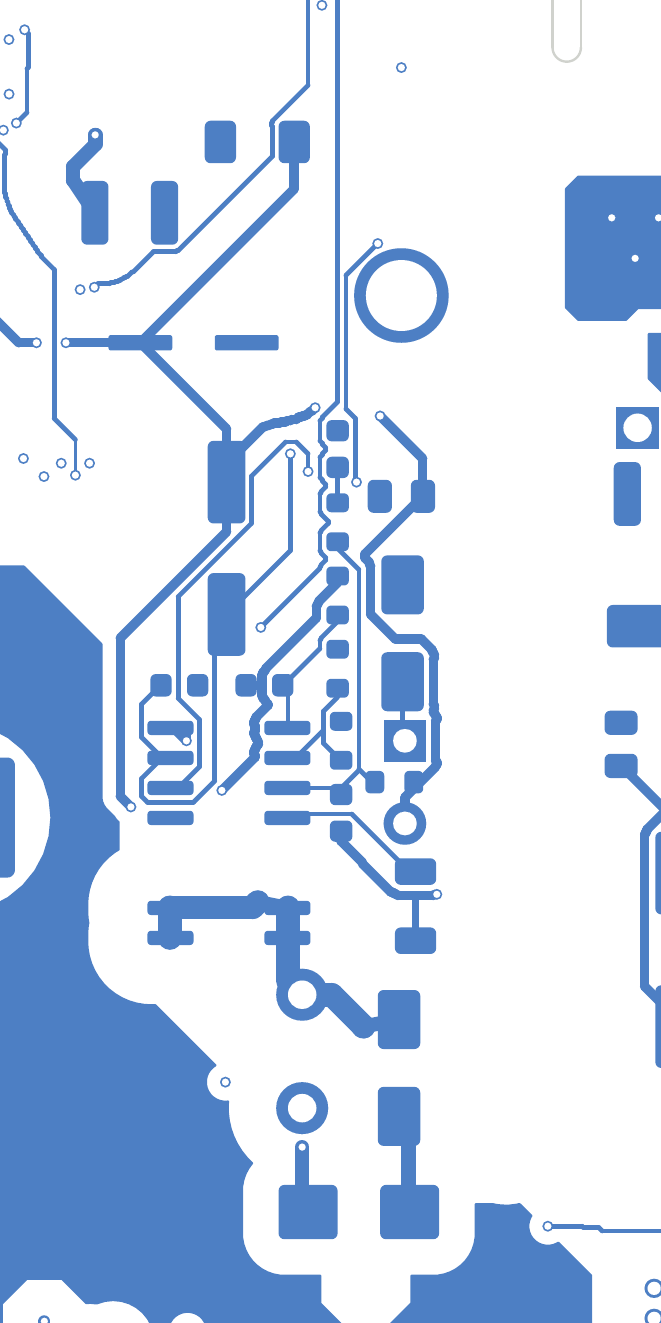
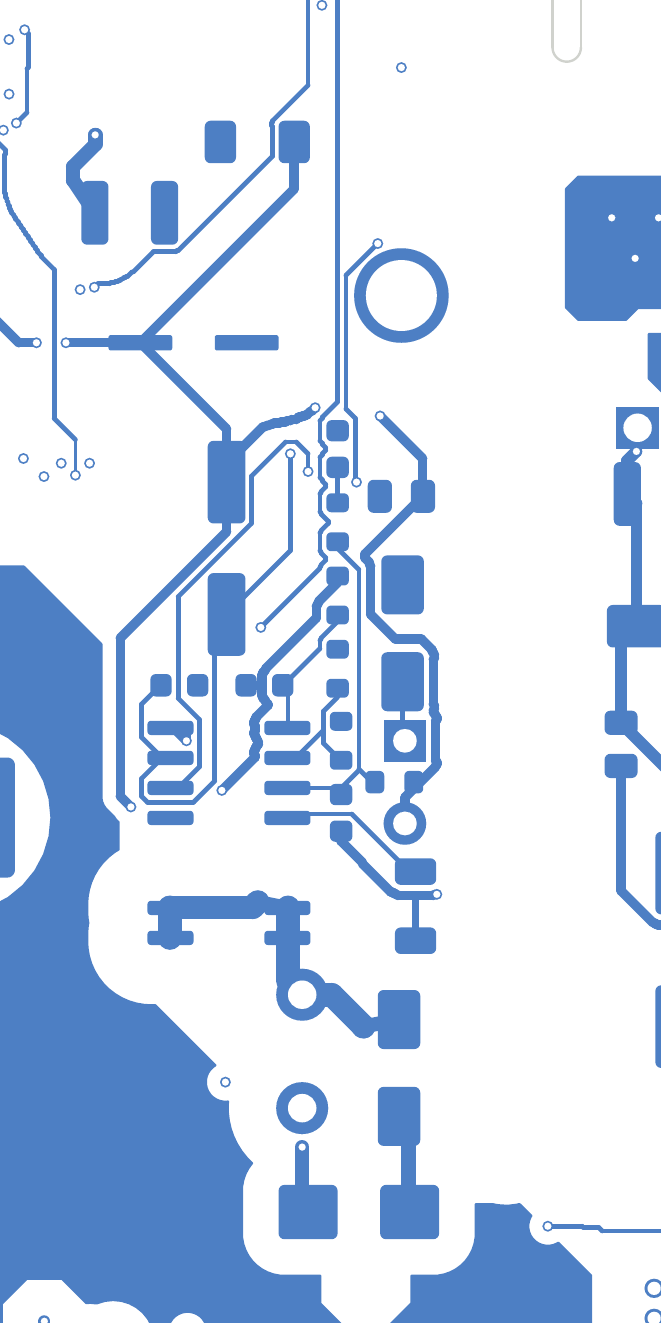
Routing pass 5 follow-up: supply steps rerun, 15V_ISO closed, aux and J11-22 findings
22 unconnected on 10 nets; board legal (0 shorts, 0 clearance errors, domain gaps 0, check_layout OK,
no pour cut). 15V step still runs out of its 420 s budget. Chain gets a step for DAB_PWM_PRI_HI_ISO
first (not run yet).

Claude-Session: https://claude.ai/code/session_01Am5hpeWpvZbzmHWspFiWJm

Changed region(s): [[0.9077, 0.4958, 1.0, 0.7748], [0.938, 0.4029, 0.9682, 0.4649], [0.938, 0.3409, 0.9682, 0.3719]]

diff --git a/tools/v5/route_pass1/maze.py b/tools/v5/route_pass1/maze.py
@@ -149,9 +149,16 @@ class Grid:
         self.keep = blk
         return blk
 
-    def build(self, net, w, walls=()):
+    def build(self, net, w, walls=(), hv=False):
         blk = bytearray(self.keepouts())
         hw = w / 2
+
+        def clr(onet, lc=0.0):
+            if hv and onet and ((net in S.HV) != (onet in S.HV)):
+                return lc if (lc and onet in S.HV) else 2.5
+            if hv and net in S.HV and onet in S.HV:
+                return max(1.0, lc)
+            return max(0.15, lc)
         xa, ya = self.x0 - 3, self.y0 - 3
         xb, yb = self.x0 + self.nx * G + 3, self.y0 + self.ny * G + 3
         for t in self.b.GetTracks():
@@ -163,12 +170,12 @@ class Grid:
             x, y = T(t.GetStart().x), -T(t.GetStart().y)
             if via:
                 if xa < x < xb and ya < y < yb:
-                    self.disc(blk, x, y, 0.2286 + 0.15 + hw + 0.06)
+                    self.disc(blk, x, y, 0.2286 + clr(t.GetNetname()) + hw + 0.06)
                 continue
             x1, y1 = T(t.GetEnd().x), -T(t.GetEnd().y)
             if max(x, x1) < xa or min(x, x1) > xb or max(y, y1) < ya or min(y, y1) > yb:
                 continue
-            r = T(t.GetWidth()) / 2 + 0.15 + hw + 0.06
+            r = T(t.GetWidth()) / 2 + clr(t.GetNetname()) + hw + 0.06
             L = math.hypot(x1 - x, y1 - y)
             n = max(1, int(L / (G * 0.7)))
             for k in range(n + 1):
@@ -183,7 +190,7 @@ class Grid:
                     continue
                 s = p.GetSize(self.layer)
                 lc = p.GetLocalClearance()
-                c = max(0.15, T(lc) if lc else 0) + hw + 0.06
+                c = clr(p.GetNetname(), T(lc) if lc else 0.0) + hw + 0.06
                 bb = p.GetBoundingBox()
                 self.rect(blk, T(bb.GetLeft()) - c, -T(bb.GetBottom()) - c, T(bb.GetRight()) + c, -T(bb.GetTop()) + c)
         for r in walls:
@@ -404,8 +411,7 @@ def aux(b, cx):
         ps = pad.GetEffectiveShape(layer)
         if any(t.GetNetname() == net and (t.Type() == pcbnew.PCB_VIA_T or t.GetLayer() == layer)
                and ps.Collide(t.GetEffectiveShape(layer), 0) for t in b.GetTracks()):
-            print(f"aux: {ref}-{num} {net}: has copper already")
-            continue
+            continue            # has a stub: the two nets below are handled with the grid router
         cand = []
         for t in b.GetTracks():
             if t.GetNetname() != net:
@@ -426,6 +432,36 @@ def aux(b, cx):
                 break
         print(f"aux: {ref}-{num} {net} ({x:.1f}, {y:.1f}): " + (f"linked to ({done[0]:.2f}, {done[1]:.2f}), {done[2]:.1f} mm away" if done
                                                              else f"NO legal link to any of {min(len(cand), 12)} nearest points of the net"))
+    aux_hv_runs(b, cx)
+
+
+def aux_hv_runs(b, cx):
+    """AUX_VIN (R136-1 group to the trunk at R98-2) and AUX_LOVP (R143-2 to the rest of the net): F.Cu, grid router
+    with the HV rule in its obstacle map, every segment gated by Ctx.clear (per-pad rule)."""
+    g = Grid(b, pcbnew.F_Cu, (64.05, -56.05, 84.05, -2.05))
+    S.MARGIN = 0.02
+    jobs = [("AUX_VIN", "R136", "1", [("R98", "2")]), ("AUX_LOVP", "R143", "2", None)]
+    for net, ref, num, targets in jobs:
+        pad = pad_of(b, ref, num)
+        a = (T(pad.GetPosition().x), -T(pad.GetPosition().y))
+        if targets:
+            goals = [(T(pad_of(b, r, n).GetPosition().x), -T(pad_of(b, r, n).GetPosition().y)) for r, n in targets]
+        else:
+            goals = sorted(((T(t.GetPosition().x), -T(t.GetPosition().y)) for t in b.GetTracks()
+                            if t.Type() == pcbnew.PCB_VIA_T and t.GetNetname() == net),
+                           key=lambda q: math.hypot(q[0] - a[0], q[1] - a[1]))[:4]
+        done = False
+        for c in goals:
+            pts = g.route(g.build(net, 0.3, hv=True), a, c)
+            if pts is None:
+                continue
+            err = S._poly(cx, net, pcbnew.F_Cu, pts, 0.3)
+            print(f"aux: {net} {ref}-{num} -> ({c[0]:.2f}, {c[1]:.2f}) on F.Cu: " + (f"path found but {err}" if err else "drawn"))
+            done = not err
+            if done:
+                break
+        if not done:
+            print(f"aux: {net} {ref}-{num}: no legal F.Cu path to {len(goals)} target(s) under the 2.5 mm rule")
 
 
 def main():

diff --git a/tools/v5/route_pass1/aux_report.py b/tools/v5/route_pass1/aux_report.py
@@ -1,0 +1,54 @@
+"""For pads in the aux area that are still alone: the nearest copper of the net and what stands in the way of a
+straight link under the per-pad HV rule of scripted.Ctx.need (run under kipy; draws nothing).
+
+  kipy aux_report.py BOARD REF-PAD [REF-PAD ...]
+"""
+import math
+import os
+import sys
+
+import pcbnew
+
+sys.path.insert(0, os.path.dirname(os.path.abspath(__file__)))
+import scripted as S  # noqa: E402
+
+T = pcbnew.ToMM
+b = pcbnew.LoadBoard(sys.argv[1])
+cx = S.Ctx(b)
+S.MARGIN = 0.02
+for arg in sys.argv[2:]:
+    ref, num = arg.split("-")
+    pad = [p for p in b.FindFootprintByReference(ref).Pads() if p.GetNumber() == num][0]
+    net = pad.GetNetname()
+    _, x, y, layer, smin, smax = S.pad_info(pad)
+    ln = b.GetLayerName(layer)
+    cand = []
+    for t in b.GetTracks():
+        if t.GetNetname() != net:
+            continue
+        if t.Type() == pcbnew.PCB_VIA_T:
+            cand.append((T(t.GetPosition().x), -T(t.GetPosition().y), "via"))
+        else:
+            for q in (t.GetStart(), t.GetEnd()):
+                cand.append((T(q.x), -T(q.y), "track end on " + b.GetLayerName(t.GetLayer())))
+    for fp in b.GetFootprints():
+        for p in fp.Pads():
+            if p.GetNetname() == net and (fp.GetReference(), p.GetNumber()) != (ref, num):
+                lay = "through" if p.HasHole() else ("B.Cu" if fp.IsFlipped() else "F.Cu")
+                cand.append((T(p.GetPosition().x), -T(p.GetPosition().y), f"pad {fp.GetReference()}-{p.GetNumber()} {lay}"))
+    cand = sorted((math.hypot(cx_ - x, cy_ - y), cx_, cy_, what) for cx_, cy_, what in cand if math.hypot(cx_ - x, cy_ - y) > 0.2)
+    same = [c for c in cand if c[3] == "via" or ln in c[3] or "through" in c[3]]
+    print(f"{ref}-{num} {net} at ({x:.2f}, {y:.2f}) on {ln}:")
+    for d, tx, ty, what in (same[:2] if same else cand[:2]):
+        t = cx.mktrack(net, layer, (x, y), (tx, ty), min(0.3, smin))
+        sh = t.GetEffectiveShape(layer)
+        blk = []
+        for o in cx.items[layer]:
+            if o[0] != net and sh.Collide(o[1], pcbnew.FromMM(cx.need(net, layer, o))):
+                c = o[2].Centre()
+                blk.append(f"{o[3]} {o[5]} [{o[0]}] at ({T(c.x):.1f}, {-T(c.y):.1f}) needs {cx.need(net, layer, o) - 0.02:.2f} mm, has {S.gap(sh, o[1]):.2f}")
+        for znet, fill, zb, z in cx.zones[layer]:
+            if znet != net and fill.OutlineCount() and fill.Collide(sh, pcbnew.FromMM(2.5 if ((net in S.HV) != (znet in S.HV)) else 0.25)):
+                blk.append(f"pour [{znet}]")
+        print(f"   nearest reachable on its layer: {what} at ({tx:.2f}, {ty:.2f}), {d:.2f} mm; straight link "
+              + ("is free" if not blk else "blocked by: " + "; ".join(blk[:5])))

diff --git a/reports/v5_layout/routing_pass5.md b/reports/v5_layout/routing_pass5.md
@@ -4,6 +4,37 @@ Branch `routing-pass5`, from 559175a. A gauge, not a layout. Coordinates: IPC fr
 `tools/v5/route_pass1/chain.sh` (new: `maze.py`); final board `build/route_p5/routed.kicad_pcb` (not committed),
 refilled copy `build/pass5/check/ac_psu.kicad_pcb`. One chain run, no rerun.
 
+## Follow-up (supply steps rerun with 420 s budgets; the numbers in this section replace those below)
+
+Final board `build/route_p5/routed.kicad_pcb` after the rerun from `supply_15V_ISO`. Checked on the refilled copy:
+**22 unconnected on 10 nets**, 0 shorts, 0 clearance errors, parity 0, domain gaps 0, `check_layout.py` OK, no pour
+cut (84 compared), HV check 0, existing copper unchanged. The restore step had nothing to put back; the tap lanes
+are all there (tool count).
+
+- **Closed by the rerun: 15V_ISO, all 7** (the step needed 313 s; my 300 s budget had cut it off).
+- **15V (6) still open**: its step ran into the 420 s budget as well (pass 4: 260 s) and was skipped whole. Its
+  open pads are all in the aux area (C41-1, C28-1, R108-1, R100-1, D14-C, R101-1).
+- **GND (7)**, five of them the pads asked about. Nearest GND copper on the pad's layer and what blocks a
+  straight link (`aux_gnd_report.txt`, by tool):
+
+  | Pad | Nearest GND copper | In the way |
+  |---|---|---|
+  | C68-1 (70.44, -51.50) F | track end (74.95, -56.85), 7.0 mm | HV rule: its own part's DC+ pad (1.25 mm, needs 2.5) and DC+ tracks at (72..73, -55) |
+  | C112-2 (70.97, -11.00) B | track end (76.45, -10.00), 5.6 mm | AUX_VIN track at (67.6, -10.3) is at exactly 2.5 mm; a PWM_G3 track crosses at (73.5, -10.6) |
+  | C114-2 (72.38, -31.00) B | track end (74.40, -31.00), 2.0 mm | an AUX_VDD track crosses at (73.1, -31.9): low voltage, not the HV rule |
+  | R102-2 (78.45, -32.52) B | track end (75.35, -31.85), 3.2 mm | AUX_LOVP pad U18-1 and tracks, AUX_VERR tracks: low voltage |
+  | C145-2 (78.30, -20.23) B | via (77.35, -19.25), 1.4 mm | a DAB_PWM_PRI_HI track crosses at (77.6..78.0, -19.3..-19.8): low voltage |
+
+  So three of the five are shut in by ordinary signal tracks routed before GND, not by the HV rule; they need a
+  via or GND routed earlier (or a GND pour on an inner layer there). This corrects what I wrote in pass 3.
+- **AUX_VIN, AUX_LOVP**: the aux script now tries them with the grid router on F.Cu under the 2.5 mm rule; no legal
+  path for either (R136-1 to R98-2; R143-2 to the net's vias). Left open.
+- **DAB_PWM_PRI_HI_ISO** (render `prihi_F.png`): the stub of J11-22 ends at (47.0, 35.95); the leftovers step put the
+  vias of its neighbours at (47.4, 35.9), (48.1, 35.4) and (48.6, 34.9), right in front of it, and a via in the pad
+  U16-3 at (78.15, 13.15) with nothing in between. An order matter. A step that routes this net first and alone is
+  added to the chain but **not run** (it would need the CTRL steps again).
+- Left open as told: CLK1, 3V3_ISO at U20-16, ISOGND at C120-2.
+
 ## Verdict
 
 - **The ISO signals close.** All 12 nets that go west past J11 are connected: the six divider taps, the
